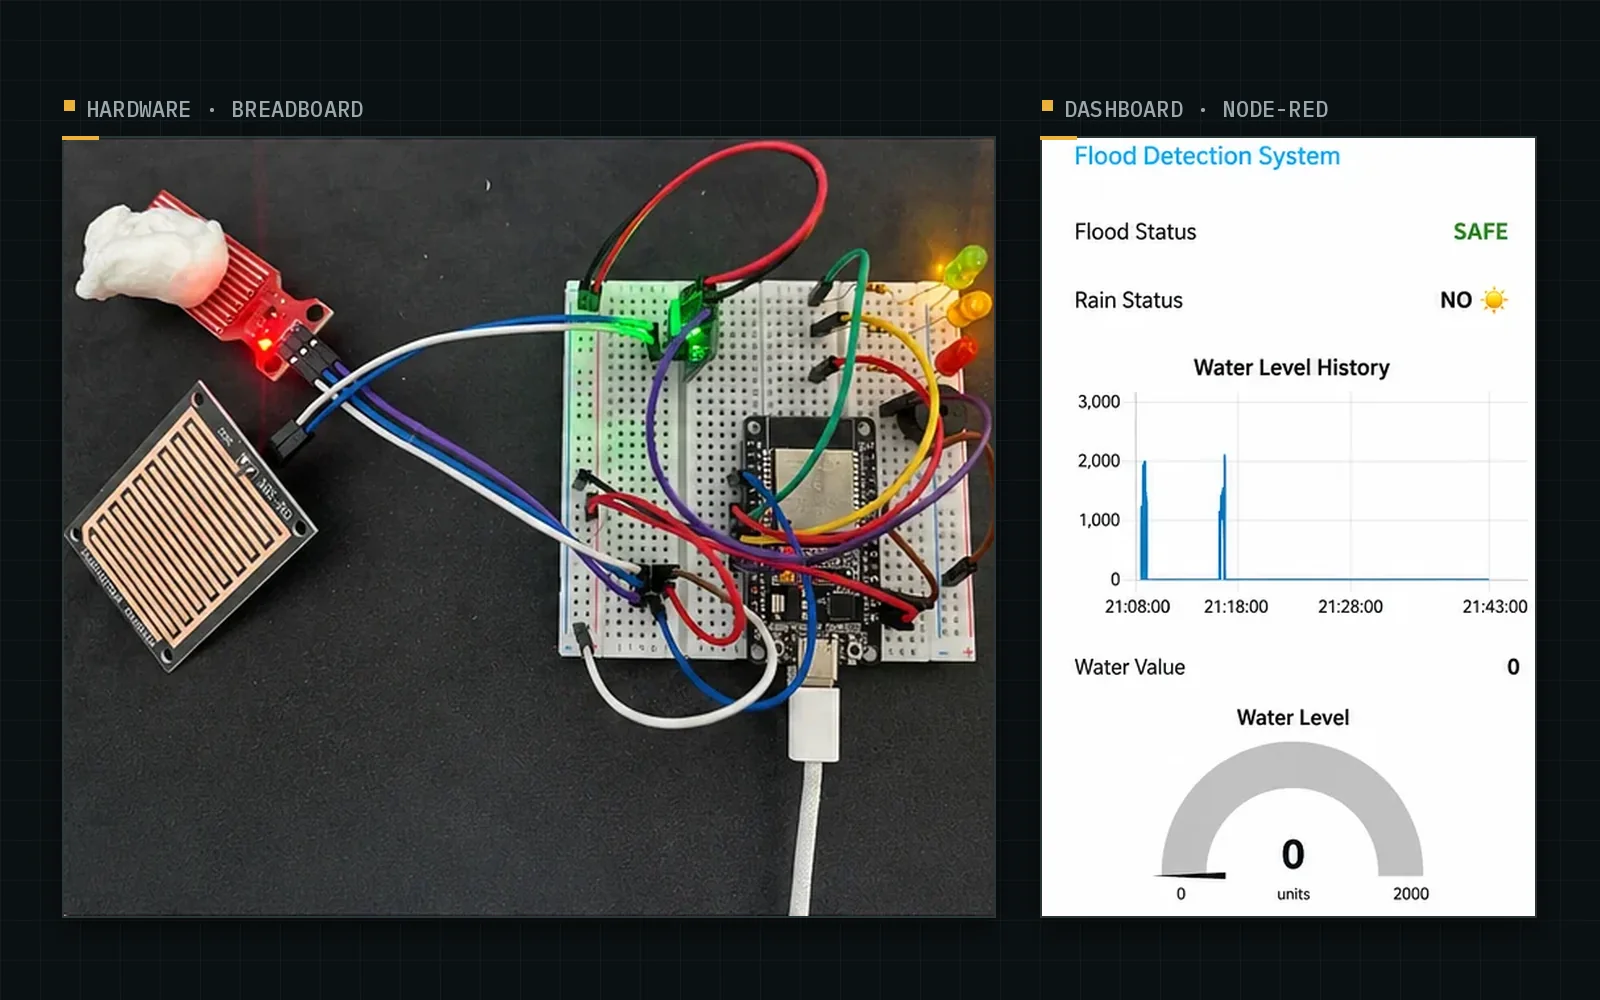
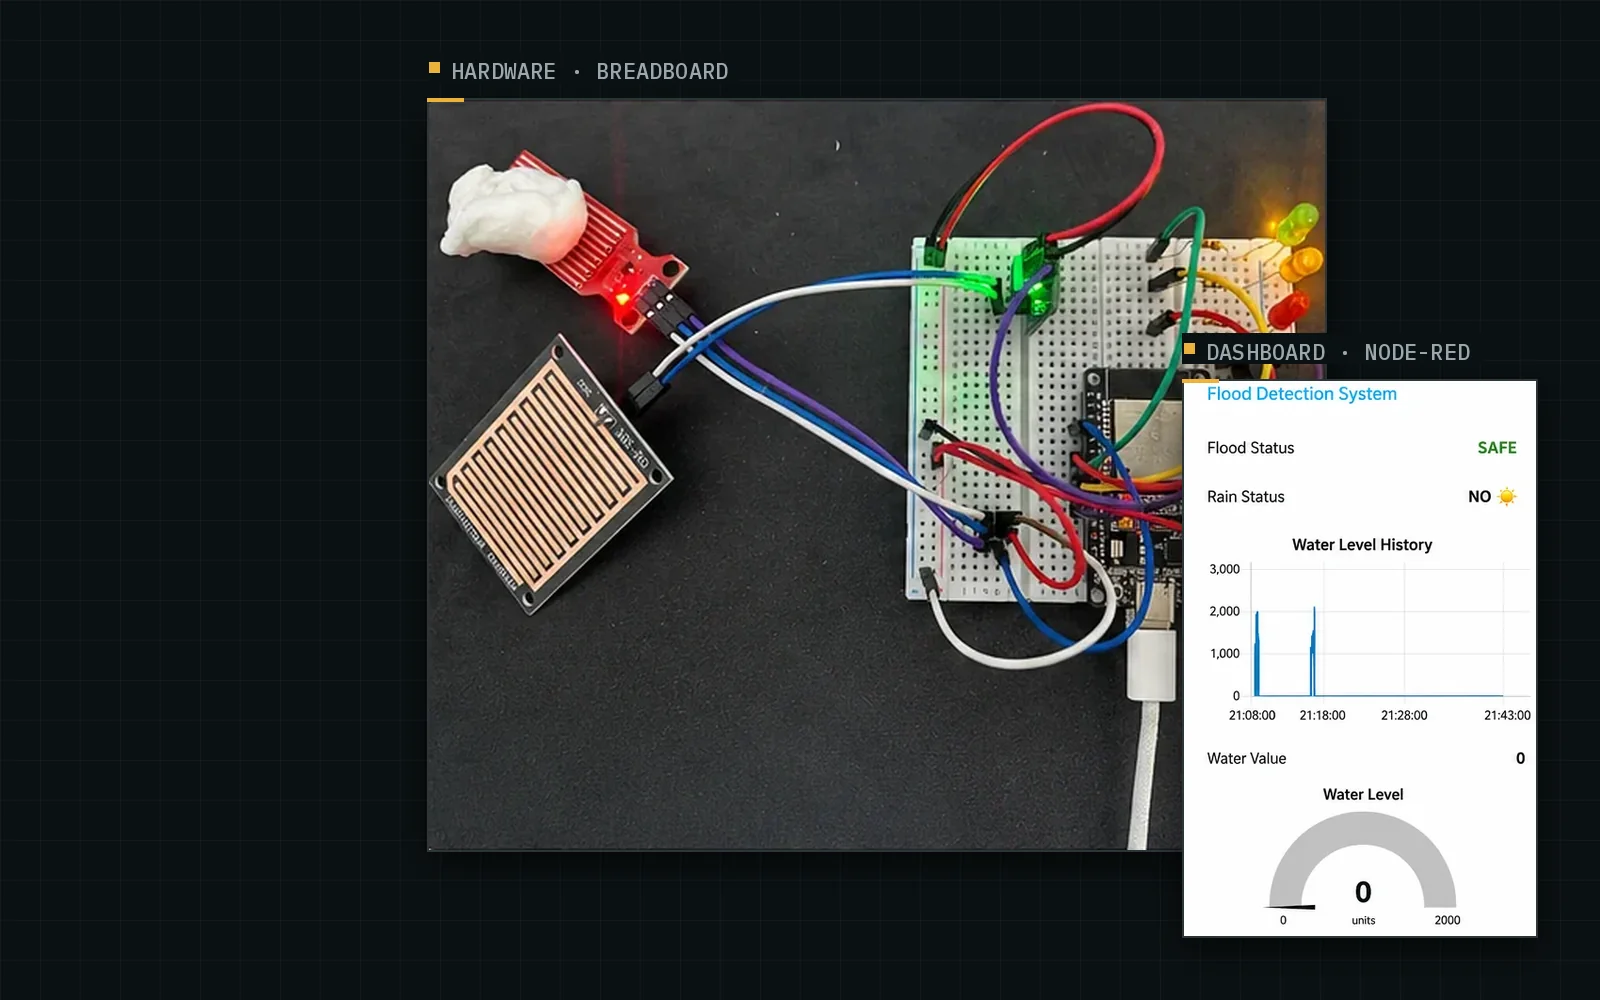
Unify project covers: circuit/hardware large, dashboard inset; new panel PCB photo
Claude-Session: https://claude.ai/code/session_013SwNqFY9cromwwTBsdvjWR

diff --git a/tools/make-covers.py b/tools/make-covers.py
@@ -1,5 +1,6 @@
 # Builds project cover panels: hardware + dashboard side by side on a dark instrument panel.
-# Run from the repository root:  python3 tools/make-covers.py public public/img/covers
+# Run from the repository root:  python3 tools/make-covers.py public public/img/covers [dryer-block.png]
+# (the optional third argument is public/diagrams/dryer-block.svg exported to PNG, e.g. with rsvg-convert)
 import sys
 from PIL import Image, ImageDraw, ImageFont, ImageFilter
 SRC = sys.argv[1]; OUT = sys.argv[2]
@@ -59,16 +60,26 @@ def pip(main, inset, out, inset_w=0.42):
     side, top = 64, 100
     mw = W - 2*side - 260; mh = int(mw / (a.width/a.height))
     if mh > H - top - 150: mh = H - top - 150; mw = int(mh * a.width/a.height)
-    frame(im, d, a, side, top, mw, mh, la)
     iw = int(W*inset_w); ih = int(iw / (b.width/b.height))
     if ih > 560: ih = 560; iw = int(ih * b.width/b.height)
-    frame(im, d, b, W - side - iw, H - 64 - ih, iw, ih, lb, lab_above=False if (H-64) > H else True)
+    mx = max(side, W - side - int(iw*0.6) - mw)            # main always runs under the inset's left part
+    frame(im, d, a, mx, top, mw, mh, la)
+    iy = min(H - 64 - ih, top + mh - int(ih*0.55))         # inset always overlaps the main's lower corner
+    frame(im, d, b, W - side - iw, max(top + 60, iy), iw, ih, lb)
     im.save(f"{OUT}/{out}.webp", "WEBP", quality=84, method=6)
 
-compose([(load("pn-photo.webp", (0.08,0.06,0.92,0.94)), "HARDWARE · SOLDERED PCB"), (load("pn-dash.webp"), "DASHBOARD · LIVE STATES")], "panel-protection")
-pip((load("en-dashboard.webp"), "DASHBOARD · ENERGY COMMAND CENTER"), (load("en-schematic.webp"), "WIRING · DESIGNED"), "energy-copilot", 0.30)
-pip((load("mp-hw.webp", (0.04,0.04,0.96,0.96)), "HARDWARE · BREADBOARD"), (load("mp-dash.webp"), "CONSOLE · TWO METHODS"), "mpu6050-speed", 0.40)
-compose([(load("fl-photo.webp"), "HARDWARE · BREADBOARD"), (load("fl-nodered.webp"), "DASHBOARD · NODE-RED")], "flood-warning")
-compose([(load("mq-eth2.webp", (0.22,0.0,1.0,1.0)), "HARDWARE · BREADBOARD"), (load("mq-ui.webp"), "CONSOLE · AIR QUALITY")], "mq135-gas")
-compose([(load("dr-circuit.webp"), "PROTEUS · FULL SYSTEM SIMULATION")], "dryer-8086")
-pip((load("ees-landing.webp", (0,0,1,0.62)), "WEB APP · DEPLOYED"), (load("ees-api.webp", (0,0,1,0.8)), "API · TESTED"), "ee-studio", 0.40)
+# Every card uses the same layout: the circuit or hardware large on top, the dashboard small in the corner.
+def loadp(path, crop=None):
+    im = Image.open(path).convert("RGB")
+    if crop:
+        w, h = im.size; l, t, r, b = crop
+        im = im.crop((int(l*w), int(t*h), int(r*w), int(b*h)))
+    return im
+
+pip((load("pn-board.webp"), "HARDWARE · SOLDERED PCB"), (load("pn-dash.webp"), "DASHBOARD · LIVE STATES"), "panel-protection", 0.26)
+pip((load("en-schematic.webp"), "CIRCUIT · WIRING DESIGN"), (load("en-dashboard.webp"), "DASHBOARD · ENERGY COMMAND CENTER"), "energy-copilot", 0.36)
+pip((load("mp-hw.webp", (0.04,0.04,0.96,0.96)), "HARDWARE · BREADBOARD"), (load("mp-dash.webp"), "CONSOLE · TWO METHODS"), "mpu6050-speed", 0.32)
+pip((load("fl-photo.webp"), "HARDWARE · BREADBOARD"), (load("fl-nodered.webp"), "DASHBOARD · NODE-RED"), "flood-warning", 0.22)
+pip((load("mq-circuit.webp"), "CIRCUIT · WIRING DIAGRAM"), (load("mq-ui.webp"), "CONSOLE · AIR QUALITY"), "mq135-gas", 0.36)
+pip((load("dr-circuit.webp"), "CIRCUIT · PROTEUS SIMULATION"), (loadp(sys.argv[3] if len(sys.argv) > 3 else f"{SRC}/../public/img/dr-circuit.webp"), "BLOCK DIAGRAM"), "dryer-8086", 0.34)
+pip((load("ees-landing.webp", (0,0,1,0.62)), "WEB APP · DEPLOYED"), (load("ees-api.webp", (0,0,1,0.8)), "API · TESTED"), "ee-studio", 0.32)
